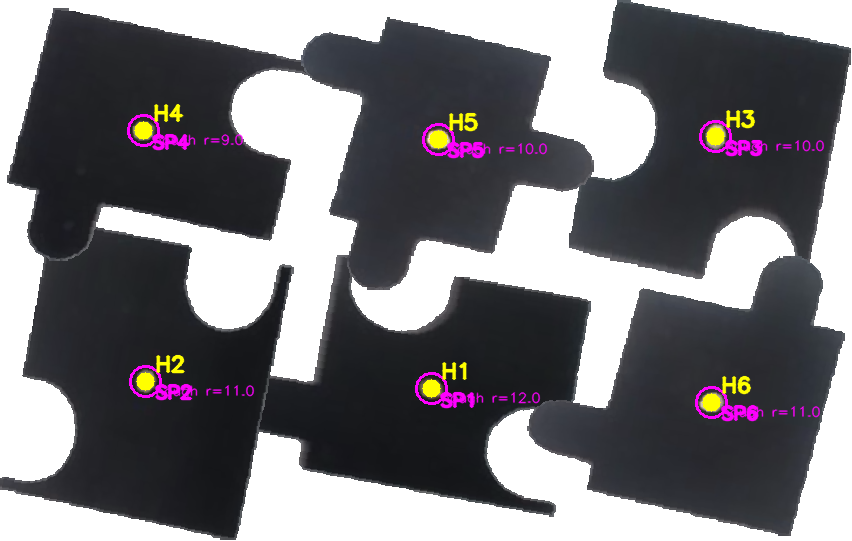
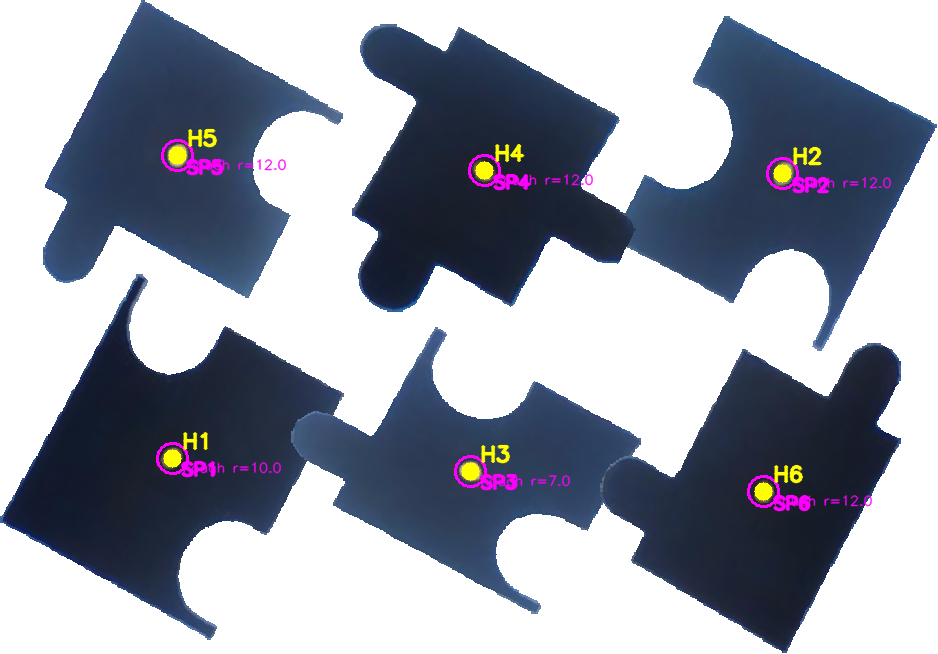
gute Lösung

diff --git a/solver/Puzzle/SmallSolver.py b/solver/Puzzle/SmallSolver.py
@@ -336,10 +336,20 @@ def _dfs(seams, si, pieces, parent, members, cell, off, acc_cost, budget, best, 
     we let the scores decide globally: a locally-cheap false pairing can't win if it forces
     a higher-total or structurally-invalid whole. Branch-and-bound on accumulated cost."""
     if len(members) == 1:
-        if acc_cost < best['cost'] and _structure_ok(pieces, cell, off, cands):
-            best['cost'] = acc_cost
-            best['cell'] = dict(cell)
-            best['off'] = dict(off)
+        if _structure_ok(pieces, cell, off, cands):
+            _cv = list(cell.values())
+            _er = max(r[0] for r in _cv) - min(r[0] for r in _cv) + 1
+            _ec = max(r[1] for r in _cv) - min(r[1] for r in _cv) + 1
+            # The competition A5 surface is landscape (wider than tall). Prefer
+            # assemblies where columns > rows (landscape grid). Portrait grids
+            # get a penalty so the DFS only accepts them when they're significantly
+            # cheaper — preventing false-positive 2×3 solutions when 3×2 is correct.
+            portrait_penalty = 100.0 if _er > _ec else 0.0
+            effective_cost = acc_cost + portrait_penalty
+            if effective_cost < best['cost']:
+                best['cost'] = effective_cost
+                best['cell'] = dict(cell)
+                best['off'] = dict(off)
         return
     if acc_cost >= best['cost']:        # bound: can't beat the incumbent
         return
@@ -884,6 +894,59 @@ def _geometric_layout(pieces, cell, off, log=print, green=False):
     n = len(pieces)
 
     _axis_lock_all(pieces, off, log=log)
+
+    # --- Post-hoc border-direction correction ---
+    # After axis-lock, each piece's BORDER edges should physically point in the
+    # expected exterior directions for their assigned grid cell.  A systematic
+    # 90°/180° mismatch can occur when the DFS committed to an off value that
+    # is structurally valid (passes _structure_ok) but geometrically wrong by
+    # one step — typically because the seam-score difference between two
+    # adjacent off values was smaller than the measurement noise on connector
+    # shapes.  The BORDER edges are far more reliably classified than connector
+    # shapes, so a disagreement between where the border edge IS pointing (post
+    # axis-lock) and where it SHOULD point (from cell position) reveals the
+    # error unambiguously, and the minimum-step correction (90, -90, or 180°)
+    # is applied to the full piece geometry and tracked in small_solver_rotation_deg.
+    _ph_rows = [cell[i][0] for i in range(n)]
+    _ph_cols = [cell[i][1] for i in range(n)]
+    _ph_r0, _ph_c0 = min(_ph_rows), min(_ph_cols)
+    _ph_H = max(_ph_rows) - _ph_r0 + 1
+    _ph_W = max(_ph_cols) - _ph_c0 + 1
+    for i, p in enumerate(pieces):
+        bi = _border_edge_info(p)          # geometric directions AFTER axis-lock
+        if not bi:
+            continue
+        nr = cell[i][0] - _ph_r0
+        nc = cell[i][1] - _ph_c0
+        expected = _expected_borders_for_cell(nr, nc, _ph_H, _ph_W)
+        if not expected:
+            continue
+        current = frozenset(geo for _, geo in bi)
+        if current == expected:
+            continue                        # already correct, nothing to fix
+        c_ph = _centroid(p)
+        for step_deg in (90.0, -90.0, 180.0):
+            a = np.deg2rad(step_deg)
+            R_ph = np.array([[np.cos(a), -np.sin(a)],
+                             [np.sin(a),  np.cos(a)]], dtype=float)
+            trial = frozenset(
+                _snap_xy_to_cardinal(
+                    (np.asarray(p.edges_[k].shape, dtype=float).mean(0) - c_ph) @ R_ph.T
+                )
+                for k, _ in bi
+            )
+            if trial == expected:
+                log(f"[small/border-post-fix] piece{getattr(p,'id',i)}: "
+                    f"geom={current} expected={expected} -> +{step_deg:.0f}° correction")
+                for e in p.edges_:
+                    e.shape = np.round(
+                        (np.asarray(e.shape, dtype=float) - c_ph) @ R_ph.T + c_ph
+                    ).astype(int)
+                _apply_rigid_to_pixels(p, R_ph, c_ph)
+                prev = float(getattr(p, "small_solver_rotation_deg", 0.0))
+                p.small_solver_rotation_deg = _ssr_norm_deg(prev + step_deg)
+                break
+    # --- end post-hoc correction ---
 
     cellmap = {cell[i]: i for i in range(n)}
     cons = []

diff --git a/tests/run_robot_solver_small.py b/tests/run_robot_solver_small.py
@@ -13,9 +13,9 @@ print("[BOOT] run_robot_solver.py wurde gestartet", flush=True)
 # CONFIG
 # =========================
 
-USE_CAMERA = False
+USE_CAMERA = True
 CAMERA_INDEX = 1
-SEND_TO_ROBOT = False
+SEND_TO_ROBOT = True
 ROBOT_PORT = "COM3"
 
 DEBUG_SAVE = True
@@ -50,7 +50,7 @@ CROP_MARGIN_RATIO_X = 0.02
 CROP_MARGIN_RATIO_Y = 0.02
 
 SAFE_Z_MM = 1.0
-PICK_Z_MM = 18.0
+PICK_Z_MM = 5.0
 
 PUMP_ON_SETTLE_SECONDS = 1.0
 PUMP_OFF_SETTLE_SECONDS = 2.0
@@ -131,7 +131,7 @@ A5_CENTER_MARGIN_Y_MM = 5.0
 # - Platzierung soll 15 mm weiter in negative Roboter-X-Richtung
 # - Platzierung soll 5 mm weiter in negative Roboter-Y-Richtung
 # Wichtig: Das muss hier negativ sein; positive X verschiebt in die falsche Richtung.
-PLACE_ROBOT_FINE_OFFSET_X_MM = 18.0
+PLACE_ROBOT_FINE_OFFSET_X_MM = 8.0   # War 18.0; -10mm Roboter-X = +10mm nach rechts in A5
 PLACE_ROBOT_FINE_OFFSET_Y_MM = 0.0   # War -5.0, aber das drückt Unterreihe ans Y-Minimum (2mm)
 
 # Firmware akzeptiert laut Fehlermeldung keine negativen Y-Werte.
@@ -2579,7 +2579,15 @@ def align_solution_to_a5(robot_commands, solution_points_px, solved_piece_points
         # Kleine Zusatzrotationen um 180° sind okay, 90° nur wenn wirklich nötig.
         extra_rotation_penalty = 0 if extra_rot in [0, 180] else 1_000
 
-        score = landscape_penalty + extra_rotation_penalty + unused_area * 0.01
+        # Tie-breaker: wenn landscape_penalty und extra_rotation_penalty identisch
+        # sind (z.B. extra_rot=0 und extra_rot=180 erzeugen beide ein landscape-
+        # Puzzle), bevorzuge die Kandidaten mit layout_rot nahe bei 0°. Ohne diesen
+        # Tie-breaker gewinnt immer extra_rot=0 — was zu layout_rot≈180° führen
+        # kann, wenn base_deskew≈180° ist. Das addiert allen Teilen systematisch
+        # ≈180° auf die Platzierungsrotation → alles steht auf dem Kopf.
+        layout_rot_nearness_penalty = abs(normalize_rotation_deg(layout_rot)) * 0.001
+
+        score = landscape_penalty + extra_rotation_penalty + unused_area * 0.01 + layout_rot_nearness_penalty
 
         candidates.append({
             "score": score,
